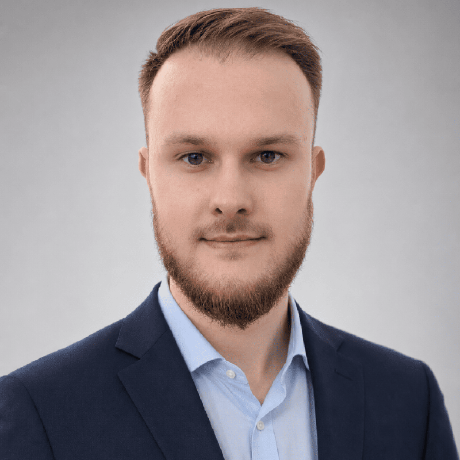
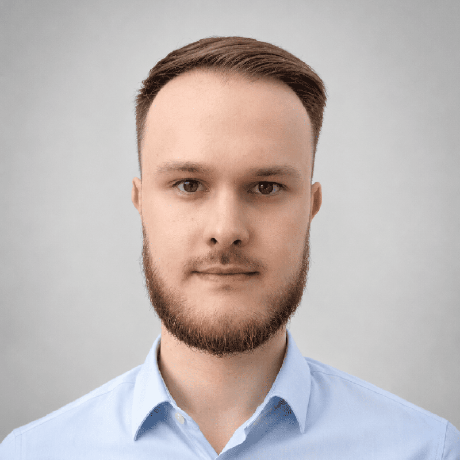
Refresh profile media and contact links

diff --git a/romanv.dev/index.html b/romanv.dev/index.html
@@ -22,7 +22,10 @@
     />
     <meta property="og:type" content="website" />
     <meta property="og:url" content="https://romanv.dev" />
-    <meta property="og:image" content="https://romanv.dev/images/og.png" />
+    <meta property="og:image" content="https://romanv.dev/images/og-v2.png" />
+    <meta property="og:image:type" content="image/png" />
+    <meta property="og:image:width" content="1200" />
+    <meta property="og:image:height" content="630" />
 
     <!-- Twitter -->
     <meta name="twitter:card" content="summary_large_image" />
@@ -31,7 +34,7 @@
       name="twitter:description"
       content="Go backend engineer building reliable fintech and high-load platforms with measurable production outcomes."
     />
-    <meta name="twitter:image" content="https://romanv.dev/images/og.png" />
+    <meta name="twitter:image" content="https://romanv.dev/images/og-v2.png" />
 
     <!-- Fonts -->
     <link rel="preconnect" href="https://fonts.googleapis.com" />

diff --git a/romanv.dev/src/components/sections/Contact.vue b/romanv.dev/src/components/sections/Contact.vue
@@ -6,10 +6,10 @@ import Button from '../ui/Button.vue'
 const { t } = useI18n()
 const contactLinks = [
   {
-    key: 'telegram',
-    url: 'https://t.me/Roman_Vassilchenko',
-    value: '@Roman_Vassilchenko',
-    icon: Send,
+    key: 'email',
+    url: 'mailto:roman.vassilchenko.work@gmail.com',
+    value: 'roman.vassilchenko.work@gmail.com',
+    icon: Mail,
   },
   {
     key: 'linkedin',
@@ -46,12 +46,14 @@ const contactLinks = [
             </p>
             <Button
               as="a"
-              href="mailto:roman.vassilchenko.work@gmail.com"
+              href="https://t.me/Roman_Vassilchenko"
+              target="_blank"
+              rel="noopener noreferrer"
               size="lg"
               class="mt-8 gap-2"
             >
-              <Mail class="h-4 w-4" />
-              {{ t('contact.emailCta') }}
+              <Send class="h-4 w-4" />
+              {{ t('contact.primaryCta') }}
             </Button>
           </div>
 

diff --git a/romanv.dev/src/i18n/locales/ru.ts b/romanv.dev/src/i18n/locales/ru.ts
@@ -220,8 +220,8 @@ export default {
   contact: {
     kicker: 'Контакты',
     title: 'Ищете Go-разработчика для финтеха или распределённых систем?',
-    subtitle: 'Пришлите описание позиции, команды и задачи. Быстрее всего отвечаю по email.',
-    emailCta: 'Написать Роману',
+    subtitle: 'Пришлите описание позиции, команды и задачи. Быстрее всего отвечаю в Telegram.',
+    primaryCta: 'Написать в Telegram',
     otherChannels: 'Другие каналы',
     telegram: 'Telegram',
     linkedin: 'LinkedIn',

diff --git a/romanv.dev/src/i18n/locales/en.ts b/romanv.dev/src/i18n/locales/en.ts
@@ -222,8 +222,8 @@ export default {
     kicker: 'Contact',
     title: 'Looking for a Go engineer for fintech or distributed-systems work?',
     subtitle:
-      'Send the role, team context, and the problem you need solved. Email is the fastest way to reach me.',
-    emailCta: 'Email Roman',
+      'Send the role, team context, and the problem you need solved. Telegram is the fastest way to reach me.',
+    primaryCta: 'Message on Telegram',
     otherChannels: 'Other channels',
     telegram: 'Telegram',
     linkedin: 'LinkedIn',

diff --git a/romanv.dev/src/components/sections/Hero.vue b/romanv.dev/src/components/sections/Hero.vue
@@ -67,7 +67,7 @@ const socialLinks = [
           <div class="relative border border-border bg-card p-3">
             <div class="absolute -left-px -top-px h-8 w-1 bg-primary" aria-hidden="true"></div>
             <img
-              src="/images/roman-vassilchenko.png"
+              src="/images/roman-vassilchenko.png?v=2"
               alt="Roman Vassilchenko"
               width="288"
               height="288"
